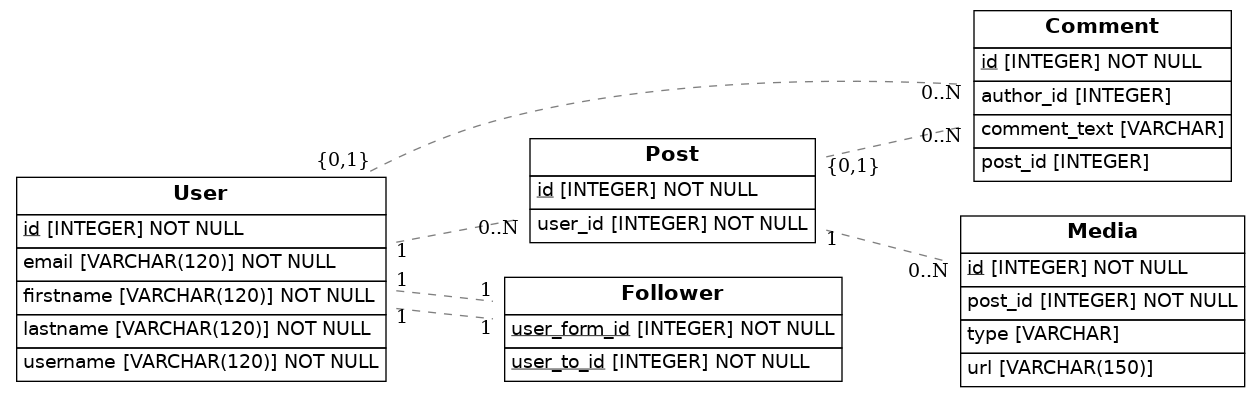
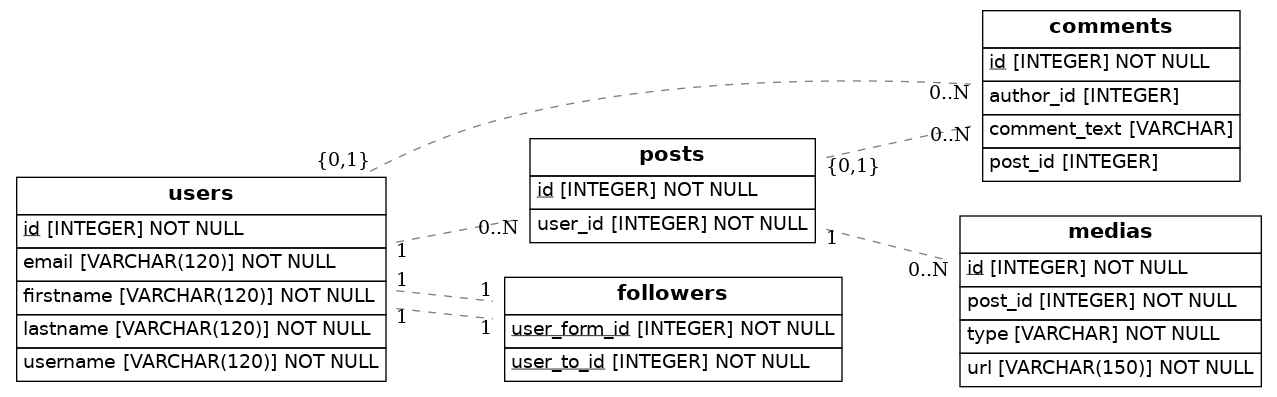
nuevos cambios (saco mayusculas y paso a plural los tablenames

diff --git a/src/models.py b/src/models.py
@@ -8,7 +8,7 @@ from eralchemy2 import render_er
 Base = declarative_base()
 
 class User(Base):
-    __tablename__ = "User"
+    __tablename__ = "users"
     id = Column(Integer, primary_key=True, nullable=False, autoincrement=True)
     username = Column(String(120), nullable=False)
     firstname = Column(String(120), nullable=False)
@@ -16,34 +16,34 @@ class User(Base):
     email = Column(String(120), unique=True, nullable=False)
     
 class Comment(Base):
-    __tablename__ = "Comment"
+    __tablename__ = "comments"
     id = Column(Integer, primary_key=True, nullable=False, autoincrement=True)
     comment_text = Column(String)
-    author_id = Column(Integer, ForeignKey("User.id"))
-    post_id = Column(Integer, ForeignKey("Post.id"))
-    user = relationship("User", backref="comment")
-    post = relationship("Post", backref = "comment")
+    author_id = Column(Integer, ForeignKey("users.id"))
+    post_id = Column(Integer, ForeignKey("posts.id"))
+    user = relationship("User", backref="comments")
+    post = relationship("Post", backref = "comments")
 
 class Post(Base):
-    __tablename__ = "Post"
+    __tablename__ = "posts"
     id = Column(Integer, primary_key=True, nullable=False, autoincrement=True)
-    user_id = Column(Integer, ForeignKey("User.id"), nullable=False)
-    user = relationship("User", backref="post")
+    user_id = Column(Integer, ForeignKey("users.id"), nullable=False)
+    user = relationship("User", backref="posts")
 
 class Media(Base):
-    __tablename__ = "Media"
+    __tablename__ = "medias"
     id = Column(Integer, primary_key=True, nullable=False, autoincrement=True)
-    type = Column(Enum)
-    url = Column(String(150))
-    post_id = Column(Integer, ForeignKey("Post.id"), nullable=False)
-    post = relationship("Post", backref="media")
+    type = Column(Enum, nullable=False)
+    url = Column(String(150), nullable=False)
+    post_id = Column(Integer, ForeignKey("posts.id"), nullable=False)
+    post = relationship("Post", backref="medias")
 
 class Follower(Base):
-    __tablename__ = "Follower"
-    user_form_id = Column(Integer, ForeignKey("User.id"), primary_key=True, nullable=False, autoincrement=True)
-    user_to_id = Column(Integer,ForeignKey("User.id"), primary_key= True, nullable=False, autoincrement=True)
-    user_form = relationship("User", backref="follower")
-    user_to = relationship("User", backref="follower")
+    __tablename__ = "followers"
+    user_form_id = Column(Integer, ForeignKey("users.id"), primary_key=True, nullable=False)
+    user_to_id = Column(Integer,ForeignKey("users.id"), primary_key= True, nullable=False)
+    user_form = relationship("User", backref="following")
+    user_to = relationship("User", backref="followers")
     
         
 
